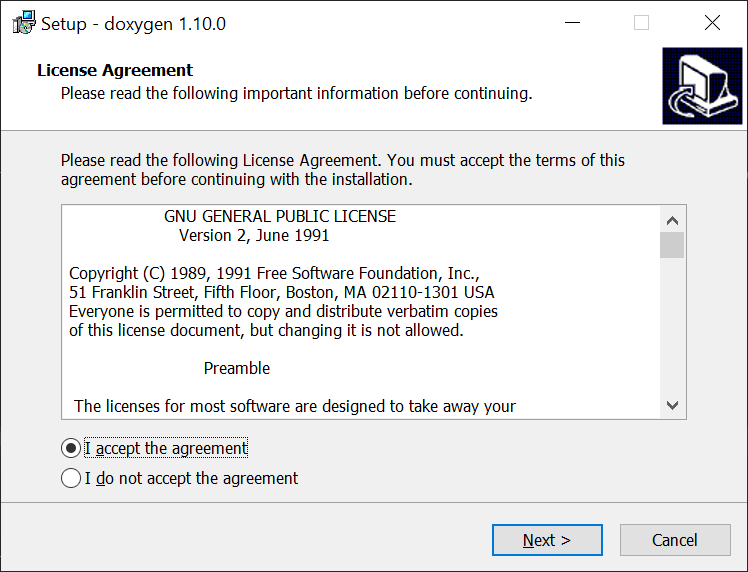
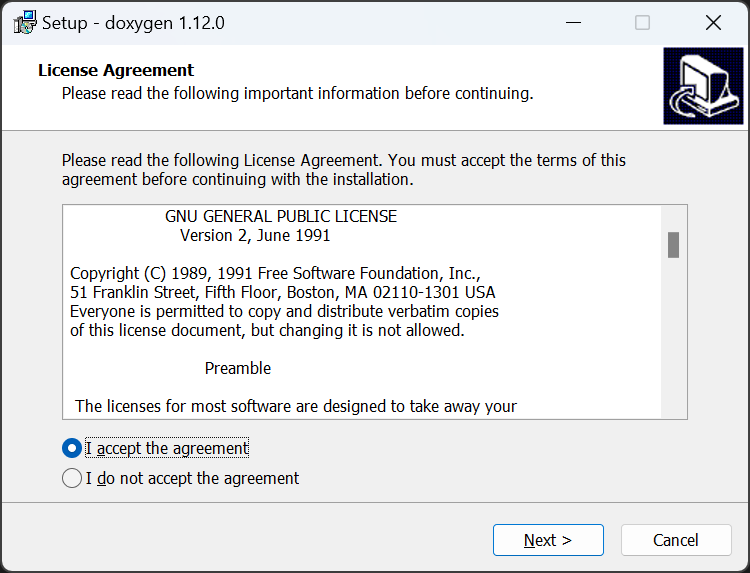
Review tutorial 11. Updated doxygen and graphviz versions.

diff --git a/doc/tutorials/11-doxygen.md b/doc/tutorials/11-doxygen.md
@@ -4,9 +4,19 @@
 
 ## New tutorial setup {#TUTORIAL_11_DOXYGEN_NEW_TUTORIAL_SETUP}
 
-This tutorial will not add any code, the changes will be reflected in the overall project structure.
+As in the previous tutorial, you will find the code integrated into the CMake structure, in `tutorial/11-doxygen`.
+In the same way, the project names are adapted to make sure there are no conflicts.
+
+### Tutorial results {#TUTORIAL_11_DOXYGEN_NEW_TUTORIAL_SETUP_TUTORIAL_RESULTS}
+
+This tutorial will result in (next to the main project structure):
+- a library `output/Debug/lib/baremetal-11.a`
+- an application `output/Debug/bin/11-logger.elf`
+- an image in `deploy/Debug/121logger-image`
 
 ## An intermezzo {#TUTORIAL_11_DOXYGEN_AN_INTERMEZZO}
+
+This tutorial will not add any code, the changes will be reflected in the overall project structure.
 
 Now that we have already created quite some code, let's focus a bit on documentation.
 If you're not interested in this part, feel free to skip to the next tutorial.
@@ -30,7 +40,7 @@ We'll decide to install the package in both Windows and Linux, as in that case, 
 
 ### Windows {#TUTORIAL_11_DOXYGEN_INSTALLING_DOXYGEN_WINDOWS}
 
-We will install the latest `Doxygen` available at the moment, 1.10.0.
+We will install the latest `Doxygen` available at the moment, 1.12.0.
 Download the installer [here](https://www.doxygen.nl/files/doxygen-1.10.0-setup.exe), and run it.
 You might be warned that `Doxygen` is not commonly downloaded, you can safely ignore this, and decide to keep the file in your browser, and if Windows Defender pops up, again you can safely ignore this and run the file.
 
@@ -62,12 +72,12 @@ doxygen -v
 The command should execute without error, and print the version of `Doxygen`:
 
 ```text
-1.10.0 (ebc57c6dd303a980bd19dd74b8b61c8f3f5180ca)
+1.12.0 (c73f5d30f9e8b1df5ba15a1d064ff2067cbb8267)
 ```
 
 ### Linux {#TUTORIAL_11_DOXYGEN_INSTALLING_DOXYGEN_LINUX}
 
-On Linux, simply run apt to install:
+On Linux, simply run apt to install (the latest version depends on your distribution, in my case it was 1.9.4):
 
 ```bash
 sudo apt install doxygen
@@ -129,8 +139,8 @@ Graphviz (dot) is a visualization tool that will enable `Doxygen` to create diag
 
 ### Windows {#TUTORIAL_11_DOXYGEN_INSTALLING_GRAPHVIZ_WINDOWS}
 
-We will install the latest Graphviz available for Windows at the moment, 9.0.0.
-Download the installer [here](https://gitlab.com/api/v4/projects/4207231/packages/generic/graphviz-releases/9.0.0/windows_10_cmake_Release_graphviz-install-9.0.0-win64.exe), and run it.
+We will install the latest Graphviz available for Windows at the moment, 12.1.0.
+Download the installer from their [site](https://graphviz.org/download/), or [here](https://gitlab.com/api/v4/projects/4207231/packages/generic/graphviz-releases/12.1.0/windows_10_cmake_Release_graphviz-install-12.1.0-win64.exe) for the current latest version, and run it.
 You might be warned that `Doxygen` is not commonly downloaded, you can safely ignore this, and decide to keep the file in your browser, and if Windows Defender pops up, again you can safely ignore this and run the file.
 
 <img src="images/graphviz-install-1.png" alt="Installing Graphviz 1" width="500"/>
@@ -165,12 +175,12 @@ dot -V
 The command should execute without error, and print the version of Graphviz:
 
 ```text
-dot - graphviz version 9.0.0 (20230911.1827)
+dot - graphviz version 12.1.0 (20240811.2233)
 ```
 
 ### Linux {#TUTORIAL_11_DOXYGEN_INSTALLING_GRAPHVIZ_LINUX}
 
-On Linux, simply run apt to install:
+On Linux, simply run apt to install (version dependent on your distribution, in my case 2.43.0):
 
 ```bash
 sudo apt install graphviz
@@ -267,7 +277,7 @@ Some items worth changing:
 | HTML_HEADER            | Sets a HTML header if desired                        | `doxygen/header.html`
 | HTML_FOOTER            | Sets a HTML footer if desired                        | `doxygen/footer.html`
 | HTML_STYLESHEET        | Sets a HTML style sheet if desired                   | `doxygen/stylesheet.css`
-| HTML_EXTRA_FILES       | Any additional files you wish to add. These can be multiple file types, such as HTML, PDF, icons, etc. End every line except the last with a backslash (\\)| `pdf/bcm2835-peripherals.pdf`
+| HTML_EXTRA_FILES       | Any additional files you wish to add. These can be multiple file types, such as HTML, PDF, icons, etc. End every line except the last with a backslash (\\)| 
 | HTML_COLORSTYLE_HUE    | Set a color hue for your pages                       | `120`
 | HTML_COLORSTYLE_SAT    | Set a color saturation for your pages                | `160`
 | GENERATE_TREEVIEW      | If set a tree-like structure in a side panel         | `YES`
@@ -298,13 +308,14 @@ All full URLs work correctly of course, but often you will want to use local fil
 To resolved this, we place all images in a single directory `doc/images`, and PDF files in `doc/pdf`, and always use the relative link to the `images` or `pdf` directory, so e.g. `images/xxx.png`.
 In every folder that needs links to images, in this case:
 
-- doc
-- doc/tutorials
+- doc (is the actual root folder for images and pdf folders)
 - doc/boards/raspberrypi
+- doc/cpu/arm
+- doc/tutorials
 
 We make sure to have the `images` and `pdf` directories available.
 For the `doc` folder the subfolders `doc/images` and `doc/pdf` are present as they contain the actual files, so that is trivial.
-For the other two, we create a symlink to the `doc/images` folder names `images`, and to the `doc/pdf` folder names `pdf`.
+For the other three, we create a symlink to the `doc/images` folder names `images`, and to the `doc/pdf` folder names `pdf`.
 This only has to be done once.
 
 ### Windows {#TUTORIAL_11_DOXYGEN_A_CAVEAT_WITH_DOXYGEN_WINDOWS}
@@ -323,6 +334,11 @@ pushd doc\boards\raspberrypi
 mklink /D images ..\..\images
 mklink /D pdf ..\..\pdf
 popd
+
+pushd doc\cpu\arm
+mklink /D images ..\..\images
+mklink /D pdf ..\..\pdf
+popd
 ```
 
 ### Linux {#TUTORIAL_11_DOXYGEN_A_CAVEAT_WITH_DOXYGEN_LINUX}
@@ -338,6 +354,11 @@ ln -s ../pdf pdf
 popd
 
 pushd doc/boards/raspberrypi
+ln -s ../../images images
+ln -s ../../pdf pdf
+popd
+
+pushd doc/cpu/arm
 ln -s ../../images images
 ln -s ../../pdf pdf
 popd
@@ -364,7 +385,7 @@ tools\run-doxygen.bat
 ```
 
 ```text
-Doxygen version used: 1.10.0 (ebc57c6dd303a980bd19dd74b8b61c8f3f5180ca)
+Doxygen version used: 1.12.0 (c73f5d30f9e8b1df5ba15a1d064ff2067cbb8267)
 Searching for include files...
 Searching for example files...
 Searching for images...
@@ -373,36 +394,19 @@ Searching for msc files...
 Searching for dia files...
 Searching for files to exclude
 Searching INPUT for files to process...
-Searching for files in directory F:/Projects/Private/baremetal/code
-Searching for files in directory F:/Projects/Private/baremetal/code/applications
-Searching for files in directory F:/Projects/Private/baremetal/code/applications/demo
-Searching for files in directory F:/Projects/Private/baremetal/code/applications/demo/create-image
-Searching for files in directory F:/Projects/Private/baremetal/code/applications/demo/src
-Searching for files in directory F:/Projects/Private/baremetal/code/libraries
-Searching for files in directory F:/Projects/Private/baremetal/code/libraries/baremetal
-Searching for files in directory F:/Projects/Private/baremetal/code/libraries/baremetal/include
-Searching for files in directory F:/Projects/Private/baremetal/code/libraries/baremetal/include/baremetal
-Searching for files in directory F:/Projects/Private/baremetal/code/libraries/baremetal/src
-Searching for files in directory F:/Projects/Private/baremetal/doc
-Searching for files in directory F:/Projects/Private/baremetal/doc/boards
-Searching for files in directory F:/Projects/Private/baremetal/doc/boards/RaspberryPi
-Searching for files in directory F:/Projects/Private/baremetal/doc/cpu
-Searching for files in directory F:/Projects/Private/baremetal/doc/firmware
-Searching for files in directory F:/Projects/Private/baremetal/doc/firmware/dts
-Searching for files in directory F:/Projects/Private/baremetal/doc/images
+Searching for files in directory D:/Projects/baremetal.github.shadow/code
+...
 Reading and parsing tag files
 Parsing files
 Preprocessing F:/Projects/Private/baremetal/code/applications/demo/src/main.cpp...
 Parsing file F:/Projects/Private/baremetal/code/applications/demo/src/main.cpp...
-
 ...
-
 finalizing index lists...
 writing tag file...
 Running plantuml with JAVA...
 Running dot...
-type lookup cache used 1065/65536 hits=5179 misses=1106
-symbol lookup cache used 887/65536 hits=5013 misses=887
+type lookup cache used 4103/65536 hits=34733 misses=4329
+symbol lookup cache used 4322/65536 hits=29644 misses=4322
 finished...
 ```
 
@@ -410,7 +414,7 @@ finished...
 
 Create the file `tools/run-doxygen.sh`
 
-```bat
+```bash
 doxygen doxygen/doxygen.conf
 rm -rf doxygen/html/images
 mkdir -p doxygen/html/images
@@ -568,7 +572,7 @@ File: code/libraries/baremetal/include/baremetal/Timer.h
 116: } // namespace baremetal
 ```
 
-I've documented the code as far as I could, so you should now see all documentation in the Doxugen generated web pages.
+I've documented the code as far as I could, so you should now see all documentation in the Doxygen generated web pages.
 The code at this point is also copied into `tutorial/11-doxygen`.
 
 You will see some special tags in the source code, as well as in Markdown documents:
@@ -616,6 +620,10 @@ The link will show the information collected for the file:
 - detailed desription
 
 <img src="images/doxygen-file-information.png" alt="Doxygen information for a file" width="800"/>
+
+Clicking on the link `Go to the source code of this file` will bring you to a copy of the code, but with the tags filtered out, making the code easier to read.
+
+<img src="images/doxygen-file-source.png" alt="Doxygen source of a file" width="800"/>
 
 ### brief and summary tags {#TUTORIAL_11_DOXYGEN_VIEWING_DOXYGEN_OUTPUT_BRIEF_AND_SUMMARY_TAGS}
 
@@ -701,7 +709,7 @@ See [Running using Netboot](#TUTORIAL_01_SETTING_UP_FOR_DEVELOPMENT_DEPLOYMENT_M
 Create a network boot SD card, e.g. using [CircleNetboot](https://github.com/probonopd/CircleNetboot) and start the system.
 ```
 
-So there are three ways to reference an internal or externel document:
+So there are three ways to reference an internal or external document:
 
 - Using a full URL like `@ref url` in code or `[description](url)` in Markdown
 - Using a reference tag like `@ref tag` in code or `[description](#tag)` in Markdown

diff --git a/doc/boards/raspberrypi/raspberrypi-peripherals-uart0.md b/doc/boards/raspberrypi/raspberrypi-peripherals-uart0.md
@@ -6,48 +6,4 @@ See [documentation](pdf/bcm2837-peripherals.pdf), page 175
 
 | Register        | Address         | Bits  | Name                                  | Acc | Meaning |
 |-----------------|-----------------|-------|---------------------------------------|-----|---------|
-| AUX_MU_IO_REG   | Base+0x00215040 | 31:8  | -                                     | -   | Reserved (write 0, read X)
-|                 |                 | 7:0   | LS bits baudrate                      | R/W | Low 8 bits of baudrate, both R/W, if DLAB = 1
-|                 |                 | 7:0   | Write data                            | W   | Data written to transmit FIFO, if DLAB = 0
-|                 |                 | 7:0   | Read data                             | R   | Data read from receive FIFO, if DLAB = 0
-| AUX_MU_IER_REG  | Base+0x00215044 | 31:8  | -                                     | -   | Reserved (write 0, read X)
-|                 |                 | 7:0   | MS bits baudrate                      | R/W | High 8 bits of baudrate, both R/W, if DLAB = 1
-|                 |                 | 7:4   | -                                     | R/W | Ignored, read 0
-|                 |                 | 3:2   | -                                     | R/W | Must be set to 1 to receive interrupts
-|                 |                 | 1     | Enable transmit int                   | R/W | Enable transmit interrupts, if DLAB = 0
-|                 |                 | 0     | Enable receive int                    | R/W | Enable receive interrupts, if DLAB = 0
-| AUX_MU_IIR_REG  | Base+0x00215048 | 31:8  | -                                     | -   | Reserved (write 0, read X)
-|                 |                 | 7:6   | FIFO enables                          | R   | Always 11 as FIFO are always enabled
-|                 |                 | 5:4   | -                                     | R   | Always 00
-|                 |                 | 3     | -                                     | R   | Always 0 as UART has not timeout function
-|                 |                 | 2:1   | Interrupt ID                          | R   | 00: no interrupts<br/>01: transmit buffer empty<br/>10: receive buffer full<br/>11: not possible
-|                 |                 | 2:1   | Clear FIFO                            | W   | bit 2: clear transmit FIFO<br/>bit 1: clear receive FIFO
-|                 |                 | 0     | Interrupt pending                     | R   | Interrupt pending<br/>0 = interrupt pending<br/>1 = no interrupt pending
-| AUX_MU_LCR_REG  | Base+0x0021504C | 31:8  | -                                     | -   | Reserved (write 0, read X)
-|                 |                 | 7     | DLAB access                           | R/W | DLAB bit (0 = normal operation, 1 = set baud rate)<br/>See also AUX_MU_IER_REG and AUX_MU_IIR_REG
-|                 |                 | 6     | Break                                 | R/W | Break, setting TX line low. If done for at least 12 bit times, this indicates a break condition (1 = pull TX low, 0 = no operation)
-|                 |                 | 5:2   | -                                     | -   | Reserved (write 0, read X)
-|                 |                 | 1:0   | Data size                             | R/W | Data size<br/>00 = 7 bits<br/>01 = invalid<br/>10 = invalid<br/>11 = 8 bits
-| AUX_MU_MCR_REG  | Base+0x00215050 | 31:8  | -                                     | -   | Reserved (write 0, read X)
-|                 |                 | 7:2   | -                                     | -   | Reserved (write 0, read X)
-|                 |                 | 1     | RTS                                   | R/W | RTS signal level, ignore for auto flow control (0 = high, 1 = low)
-|                 |                 | 0     | -                                     | -   | Reserved (write 0, read X)
-| AUX_MU_LSR_REG  | Base+0x00215054 | 31:8  | -                                     | -   | Reserved (write 0, read X)
-|                 |                 | 7     | -                                     | -   | Reserved (write 0, read X)
-|                 |                 | 6     | Transmitter idle                      | R   | Transmit FIFO empty and transmitter idle (1 = idle, 0 = not idle). Reset: 1
-|                 |                 | 5     | Transmitter empty                     | R   | Transmit FIFO empty (1 = empty, 0 = not empty). Reset: 0
-|                 |                 | 4:2   | -                                     | -   | Reserved (write 0, read X)
-|                 |                 | 1     | Receiver overrun                      | R/C | Receive buffer full and more data received (discard)<br/>Bit is reset on read. To perform a non-destructive read use AUX_MU_STAT_REG (1 = overrun, 0 = no overrun)
-|                 |                 | 0     | Receive data ready                    | R   | FIFO contains received data (1 = data ready, 0 = no data ready)
-| AUX_MU_MSR_REG  | Base+0x00215058 | 31:8  | -                                     | -   | Reserved (write 0, read X)
-|                 |                 | 7:6   | -                                     | -   | Reserved (write 0, read X)
-|                 |                 | 5     | CTS status                            | R   | CTS status (1 = CTS low, 0 = CTS high). Reset: 1)
-|                 |                 | 4:0   | -                                     | -   | Reserved (write 0, read X)
-| AUX_MU_CNTL_REG | Base+0x00215060 | 31:8  | -                                     | -   | Reserved (write 0, read X)
-|                 |                 | 7     | CTS assert level                      | R/W | CTS auto flow assert level (1 = low, 0 = high)<br/>Reset level: 0
-|                 |                 | 6     | RTS assert level                      | R/W | RTS auto flow assert level (1 = low, 0 = high)<br/>Reset level: 0
-|                 |                 | 5:4   | RTS auto flow level                   | R/W | RTS auto flow level<br/>00 = de-assert when FIFO has 3 empty spaces<br/>01 = de-assert when FIFO has 2 empty spaces<br/>10 = de-assert when FIFO has 1 empty space<br/>11 = de-assert when FIFO has 4 empty spaces<br/>Reset level: 00
-|                 |                 | 3     | Enable CTS transmit auto flow control | R/W | Enable transmit auto flow-control using CTS<br/>1 = stop transmit when CTS de-asserted<br/>0 = ignore CTS status<br/>Reset level: 0
-|                 |                 | 2     | Enable RTS receive auto flow control  | R/W | Enable receive auto flow-control using RTS<br/>1 = de-assert RTS if FIFO reaches auto flow level<br/>0 = RTS level determined by AUX_MU_MCR_REG bit 1<br/>Reset level: 0
-|                 |                 | 1     | Transmit enable                       | R/W | Enable transmit<br/>1 = enabled<br/>0 = disabled<br/>Reset level: 1
-|                 |                 | 0     | Receive enable                        | R/W | Enable receive<br/>1 = enabled<br/>0 = disabled<br/>Reset level: 1
+ To be filled     |                 |       |                                       |     |

diff --git a/README.md b/README.md
@@ -60,11 +60,7 @@ This means that code will contain a copyright, but you are free to use it in whi
 
 @todo
 - Check if bug in Visual Studio 2022 is fixed
-- Build demo for RPI 4
-- Try out Raspberry Pi 4 emulation in QEMU
 - Find and add Raspberry Pi 5 information, extend samples for this platform as soon as possible (look at circle)
 - Add description of how to use JTAG device with Raspberry Pi, using e.g. [Macoy Madson's page](https://macoy.me/blog/programming/RaspberryPi5Debugging)
 - Explain setting up development environment on Windows for Windows build : "C:\Program Files (x86)\Microsoft Visual Studio\2019\Community\VC\Auxiliary\Build\vcvars64.bat"
-- Add logger, inject character device
-- Add retrieval of system information
 - Add clang format and git hook for commit

diff --git a/doc/baremetal-defines.md b/doc/baremetal-defines.md
@@ -70,5 +70,5 @@ Determines type of platform to build for:
 ### USE_PHYSICAL_COUNTER {#BAREMETAL_DEFINES_AND_OPTIONS_IMPORTANT_DEFINES_USE_PHYSICAL_COUNTER}
 
 Determines whether to use BCM2835 System Timer instead of ARM timer:
-- not defined: User ARM timer
+- not defined: Use ARM timer
 - defined: Use BCM2835 System Timer
